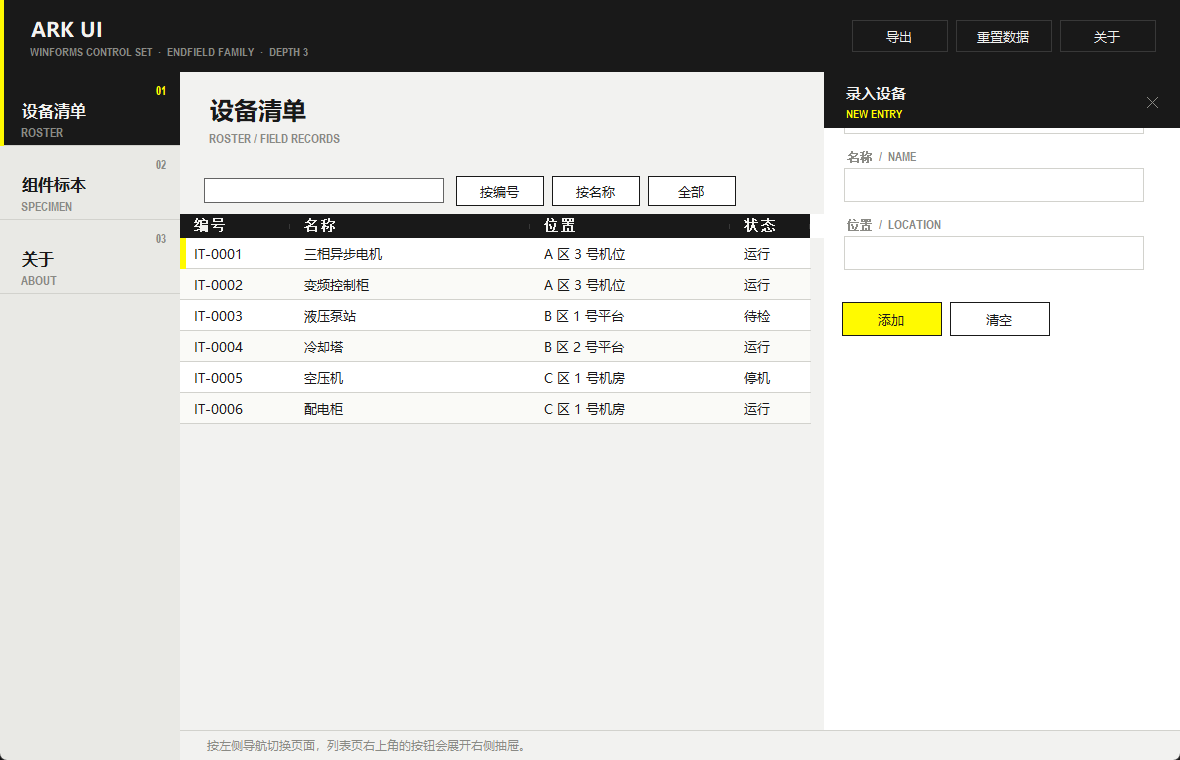
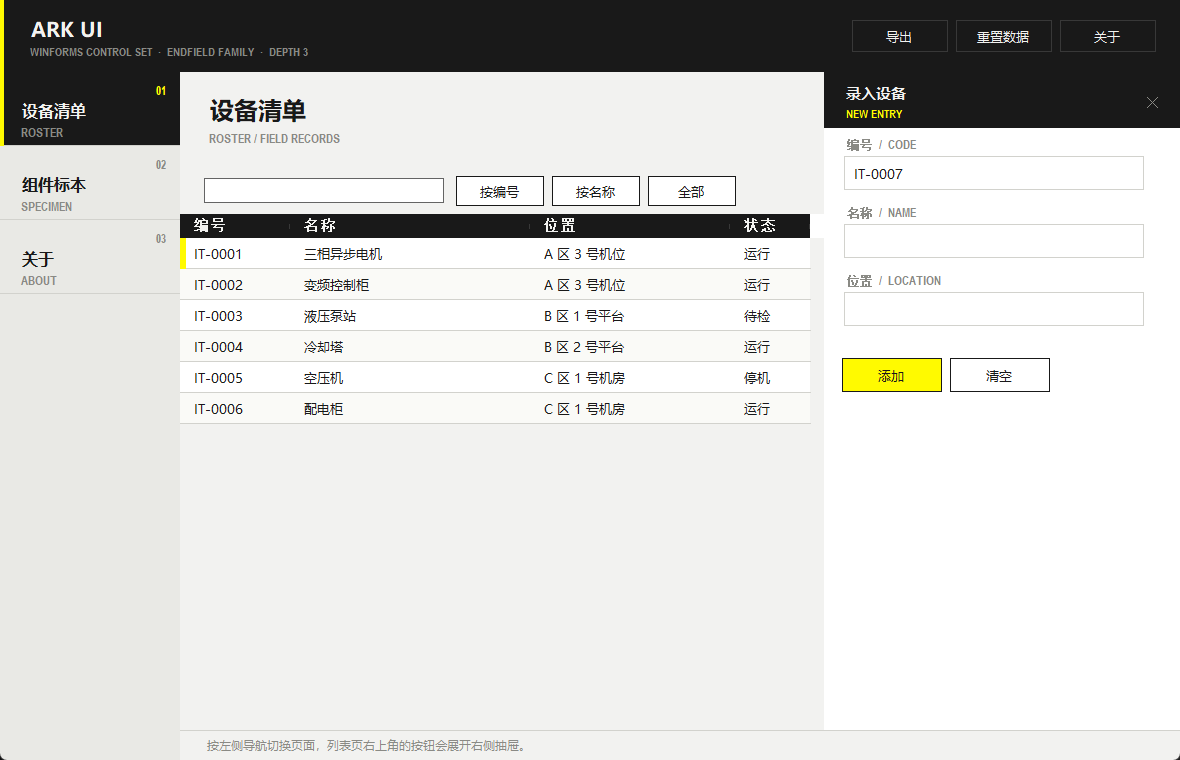
fix(demo): 抽屉页头盖住第一组输入框
抽屉内部的表单用 Dock=Fill、页头用 Dock=Top，Dock 的分配顺序和 z-order
反着来，Fill 先拿到整块高度，56 高的黑色页头再压上去，编号那组只剩下半截输入框。
改成两块都 SetBounds，并把这条坑写进 DESIGN.md 7.4。四张截图一并重截。

Changed region(s): [[0.7017, 0.3632, 0.8542, 0.5145], [0.7017, 0.1816, 0.7932, 0.2421], [0.7017, 0.2724, 0.7932, 0.3026]]

diff --git a/demo/DemoForm.cs b/demo/DemoForm.cs
@@ -507,10 +507,25 @@ namespace ArkUiDemo
             body.Controls.Add(add);
             body.Controls.Add(cancel);
 
-            drawer.Controls.Add(body);
+            // 页头 56 固定，剩下的给表单。这里同样不用 Dock：Dock 的分配顺序
+            // 跟 z-order 反着来，Fill 若先被分配就会把整块高度吃干净，
+            // 页头再盖上去，第一组输入框就只剩半截。
+            head.Dock = DockStyle.None;
+            body.Dock = DockStyle.None;
+
             drawer.Controls.Add(head);
-            body.BringToFront();
-            head.BringToFront();
+            drawer.Controls.Add(body);
+
+            head.SetBounds(0, 0, drawer.DrawerWidth, 56);
+            body.SetBounds(0, 56, drawer.DrawerWidth, 496);
+
+            drawer.Resize += delegate
+            {
+                int w = drawer.ClientSize.Width;
+                int h = drawer.ClientSize.Height;
+                head.SetBounds(0, 0, w, 56);
+                body.SetBounds(0, 56, w, Math.Max(0, h - 56));
+            };
         }
 
         /// <summary>一对"标签 + 输入框"，纵向排列，返回输入框方便取值。</summary>

diff --git a/DESIGN.md b/DESIGN.md
@@ -220,6 +220,10 @@ Left = Parent.ClientSize.Width - round(356 * slide)
 抽屉挡住列表右侧时，要把 `ArkListView.WidthLimit` 设成露出来的宽度，
 否则最后一列永远藏在抽屉底下。
 
+抽屉内部还是"页头 + 表单"两段，照 7.3 的办法摆。这里踩过一次：表单给 `Dock = Fill`、
+页头给 `Dock = Top`，黑色页头把第一组输入框盖掉了半截。原因是 Dock 的分配顺序和 z-order 反着来，
+`Fill` 那块先拿到空间就吃掉整块高度，`Top` 只剩 0。两块都改成 `SetBounds` 就没事。
+
 ## 8. 不要做的事
 
 - 不用圆角卡片 + 阴影。这套语言靠 1px 线和留白分层。
